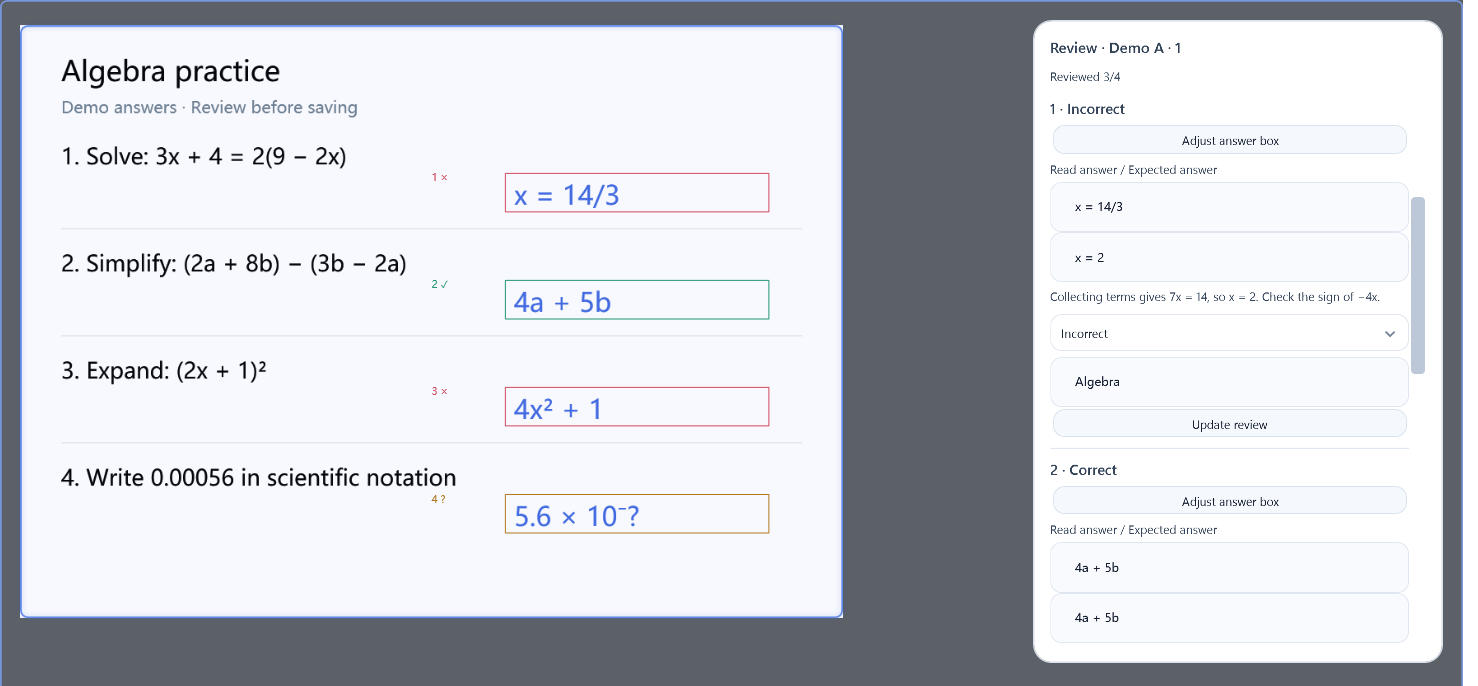
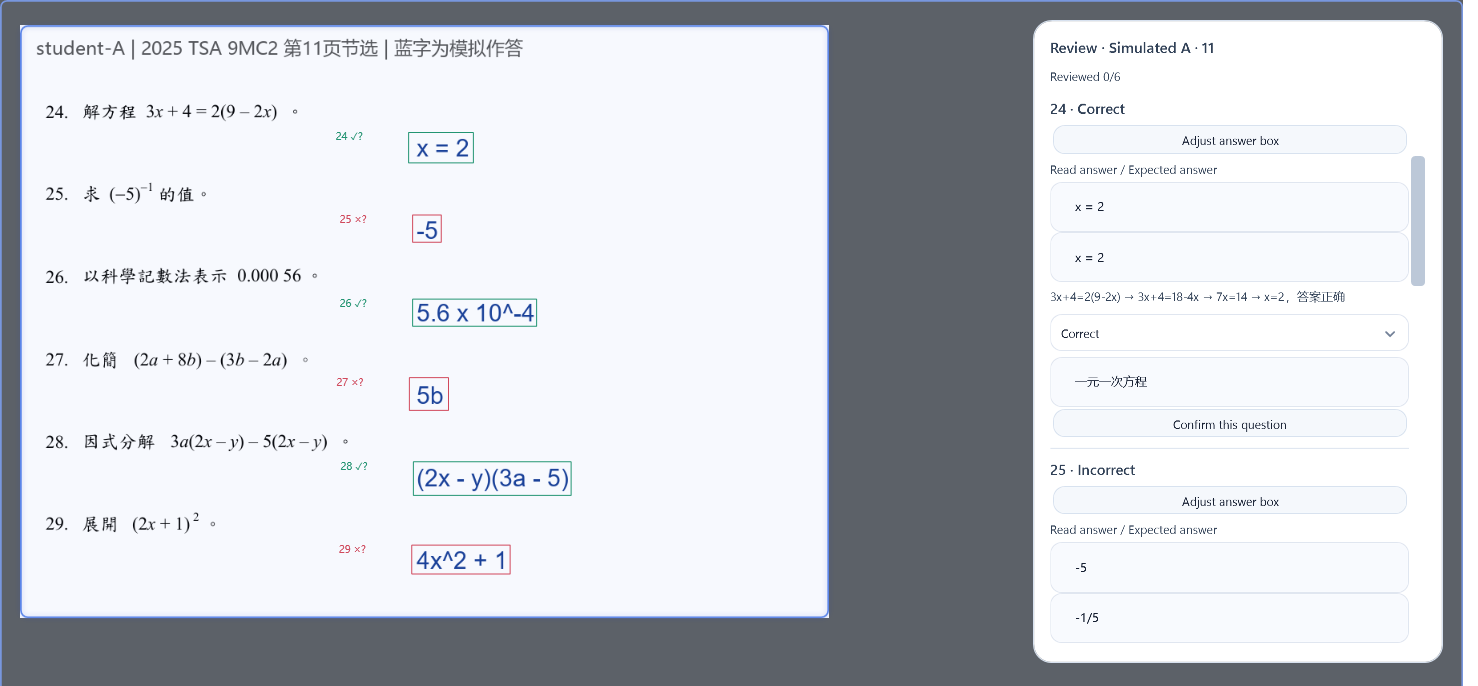
将README演示题替换为真实TSA试卷及实际批改截图，补充官方来源

diff --git a/tests/InteractionHarness/TeachingReadmeDemo.cs b/tests/InteractionHarness/TeachingReadmeDemo.cs
@@ -1,6 +1,5 @@
 // SPDX-FileCopyrightText: 2026 Abner Stephen and contributors
 // SPDX-License-Identifier: MPL-2.0
-using System.Globalization;
 using System.IO;
 using System.Reflection;
 using System.Windows;
@@ -11,10 +10,6 @@ using System.Windows.Threading;
 using mewu_ai_Assistant.Services;
 using mewu_ai_Assistant.Views;
 using Application=System.Windows.Application;
-using Brushes=System.Windows.Media.Brushes;
-using Brush=System.Windows.Media.Brush;
-using Pen=System.Windows.Media.Pen;
-using FlowDirection=System.Windows.FlowDirection;
 using Point=System.Windows.Point;
 
 internal static class TeachingReadmeDemo
@@ -26,45 +21,32 @@ internal static class TeachingReadmeDemo
 #else
         if(Environment.GetEnvironmentVariable("MEWU_QA_CAPTURE_WINDOWS")!="1")throw new InvalidOperationException("Explicit QA capture switch required.");
         app.ShutdownMode=ShutdownMode.OnExplicitShutdown;
-        overlay.Loaded+=(_,_)=>app.Dispatcher.BeginInvoke(DispatcherPriority.ApplicationIdle,new Action(()=>
+        overlay.Loaded+=(_,_)=>app.Dispatcher.BeginInvoke(DispatcherPriority.ApplicationIdle,new Action(async()=>
         {
             try
             {
                 const BindingFlags flags=BindingFlags.Instance|BindingFlags.NonPublic;
                 void Invoke(string name,params object[] args)=>typeof(CaptureOverlayWindow).GetMethod(name,flags)!.Invoke(overlay,args);
                 string L(string zh,string en)=>english?en:zh;
-                var questions=new[]{L("解方程：3x + 4 = 2(9 − 2x)","Solve: 3x + 4 = 2(9 − 2x)"),L("化简：(2a + 8b) − (3b − 2a)","Simplify: (2a + 8b) − (3b − 2a)"),L("展开：(2x + 1)²","Expand: (2x + 1)²"),L("用科学记数法表示 0.00056","Write 0.00056 in scientific notation")};
-                var answers=new[]{"x = 14/3","4a + 5b","4x² + 1","5.6 × 10⁻?"};
-                var expected=new[]{"x = 2","4a + 5b","4x² + 4x + 1","5.6 × 10⁻⁴"};
-                var visual=new DrawingVisual();
-                using(var dc=visual.RenderOpen())
-                {
-                    dc.DrawRectangle(Brushes.White,null,new Rect(0,0,1000,720));
-                    Text(L("代数小练习","Algebra practice"),50,32,34,Brushes.Black);
-                    Text(L("演示作答 · 请核对后保存","Demo answers · Review before saving"),50,86,20,Brushes.SlateGray);
-                    for(var n=0;n<4;n++)
-                    {
-                        Text($"{n+1}. {questions[n]}",50,140+n*130,27,Brushes.Black);
-                        Text(answers[n],600,184+n*130,32,Brushes.RoyalBlue);
-                        if(n<3)dc.DrawLine(new Pen(Brushes.Gainsboro,1),new Point(50,247+n*130),new Point(950,247+n*130));
-                    }
-                    void Text(string value,double x,double y,double size,Brush brush)=>dc.DrawText(new FormattedText(value,CultureInfo.InvariantCulture,FlowDirection.LeftToRight,new Typeface("Microsoft YaHei"),size,brush,1),new Point(x,y));
-                }
-                var bitmap=new RenderTargetBitmap(1000,720,96,96,PixelFormats.Pbgra32);bitmap.Render(visual);bitmap.Freeze();
-                var page=TeachingImportService.Create(bitmap,L("演示 A","Demo A"),1);
-                page.Items=Enumerable.Range(0,4).Select(n=>new GradingItem((n+1).ToString(),answers[n],expected[n],n==1?GradingVerdict.Correct:n==3?GradingVerdict.Uncertain:GradingVerdict.Incorrect,
-                    n==0?L("移项得 7x = 14，因此 x = 2。注意右侧 −4x 的符号。","Collecting terms gives 7x = 14, so x = 2. Check the sign of −4x."):n==1?L("去括号并合并同类项，结果正确。","The brackets and like terms are handled correctly."):n==2?L("完全平方公式包含中间项 4x。","The square includes the middle term 4x."):L("指数无法辨认，请回看原卷。","The exponent is unclear. Check the original."),
-                    n==1?L("去括号与合并同类项","Collecting like terms"):L("代数基础","Algebra"),.59,(180+n*130)/720d,.32,.065){Confirmed=n<3}).ToArray();
-                page.Selected=false;page.Status=L("3 题已核对 · 1 题待核","3 reviewed · 1 uncertain");host.Teaching.AddRange([page]);
+                var folder=Path.GetFullPath(".codex-build/teaching-evaluation");
+                using var deadline=new CancellationTokenSource(TimeSpan.FromSeconds(60));
+                var page=(await TeachingImportService.ImportAsync(Path.Combine(folder,"student-A.png"),L("模拟作答 A","Simulated A"),"",11,deadline.Token)).Single();
+                using var saved=System.Text.Json.JsonDocument.Parse(File.ReadAllText(Path.Combine(folder,"workflow-api-A.json")));
+                var rows=System.Text.Json.JsonSerializer.Deserialize<GradingItem[]>(saved.RootElement.GetProperty("Items"))??throw new InvalidDataException("Missing actual grading results");
+                if(rows.Length!=6||!rows.Select(r=>r.Question).SequenceEqual(new[]{"24","25","26","27","28","29"}))throw new InvalidDataException("Expected the measured TSA page excerpt");
+                page.Items=await mewu_ai_Assistant.AI.TeachingGradingService.RefineBoundsAsync(page,rows,deadline.Token);
+                page.Selected=false;page.Status=L("MiniMax 实测结果 · 待老师确认","Recorded MiniMax grading · Teacher review required");host.Teaching.AddRange([page]);
                 Invoke("ToggleTeaching",overlay,new RoutedEventArgs());Invoke("ShowTeachingPage",page);Invoke("SetPromptBarHidden",true,false);
                 var panel=(Border)typeof(CaptureOverlayWindow).GetField("_teachingPanel",flags)!.GetValue(overlay)!;
                 var scroll=(ScrollViewer)panel.Child;overlay.UpdateLayout();
                 var content=(StackPanel)scroll.Content;
                 var review=content.Children.OfType<TextBlock>().First(t=>t.Text.StartsWith(L("逐题核对","Review"),StringComparison.Ordinal));
                 scroll.ScrollToVerticalOffset(review.TranslatePoint(new Point(),content).Y);overlay.UpdateLayout();
-                // Capture the actual overlay with only the original worksheet and seeded demo review.
-                // No model call, saved settings, real desktop or student material is read.
+                // Capture the official TSA excerpt with the actual saved MiniMax grading output.
+                // Blue answers are explicitly simulated; no model verdicts are invented here.
+                // Original PDF and raw response files remain outside the repository.
                 ((FrameworkElement)overlay.FindName("PointerInspector")).Visibility=Visibility.Collapsed;
+                ((FrameworkElement)overlay.FindName("PromptBarHost")).Visibility=Visibility.Collapsed;
                 var height=(int)Math.Min(overlay.ActualHeight,Canvas.GetTop(panel)+panel.ActualHeight+24);
                 var image=new RenderTargetBitmap((int)overlay.ActualWidth,height,96,96,PixelFormats.Pbgra32);image.Render(overlay);
                 var path=Path.GetFullPath("docs/images/teaching-review-"+(english?"en":"zh")+".png");Directory.CreateDirectory(Path.GetDirectoryName(path)!);

diff --git a/README.md b/README.md
@@ -68,10 +68,10 @@ Screenshots, manual annotations, pinned images, text recognition, and recording 
 See correct, incorrect and uncertain answers marked on the original page. Review the reading, expected answer and verdict, or adjust an answer box. Collect several submissions to build practice from their reviewed shared errors. [Explore the teaching workflow](./docs/teaching-workflow.md).
 
 <p align="center">
-  <a href="./docs/images/teaching-review-en.png"><img src="./docs/images/teaching-review-en.png" width="100%" alt="Paper annotations beside the review panel: incorrect, correct and uncertain answers on the left, editable readings and expected answers on the right" /></a>
+  <a href="./docs/images/teaching-review-en.png"><img src="./docs/images/teaching-review-en.png" width="100%" alt="Official 2025 TSA exam excerpt with recorded MiniMax annotations and the question-by-question review panel" /></a>
 </p>
 
-*Actual interface with demo answers. Teachers should review grading results and generated exercises.*
+*Source: [HKEAA 2025 TSA Secondary 3 Mathematics 9MC2, page 11](https://www.bca.hkeaa.edu.hk/web/Common/res/2025secPaper/S3Math/TSA2025_9MC2_Q.pdf#page=11). The original exam layout is preserved. Blue answers are simulated; annotations and verdicts are from the recorded MiniMax evaluation and still require teacher review. Exam copyright belongs to its original owner.*
 
 ### Video analysis
 

diff --git a/README.zh-CN.md b/README.zh-CN.md
@@ -68,10 +68,10 @@
 在原卷上查看勾叉和待核标记，逐题核对识读、正确答案与判定，也可以重新框出作答位置。收集多份作答后，可根据已确认的共同错题生成巩固练习。[查看教学流程](./docs/teaching-workflow.md)。
 
 <p align="center">
-  <a href="./docs/images/teaching-review-zh.png"><img src="./docs/images/teaching-review-zh.png" width="100%" alt="试卷原位标注：左侧显示错误、正确和待核作答，右侧可核对识读、答案并调整判定" /></a>
+  <a href="./docs/images/teaching-review-zh.png"><img src="./docs/images/teaching-review-zh.png" width="100%" alt="2025 TSA 真实试卷节选及 MiniMax 实测批注，右侧逐题核对识读和正确答案" /></a>
 </p>
 
-*图为演示作答的实际界面。批改结果与生成的练习均需老师核对。*
+*试卷来源：[香港考评局 2025 TSA 中三数学 9MC2，第 11 页](https://www.bca.hkeaa.edu.hk/web/Common/res/2025secPaper/S3Math/TSA2025_9MC2_Q.pdf#page=11)。保留真实原题版式，蓝字为模拟作答，标注与判定来自 MiniMax 实测结果，仍需老师核对；原题版权归原机构。*
 
 ### 视频分析
 
